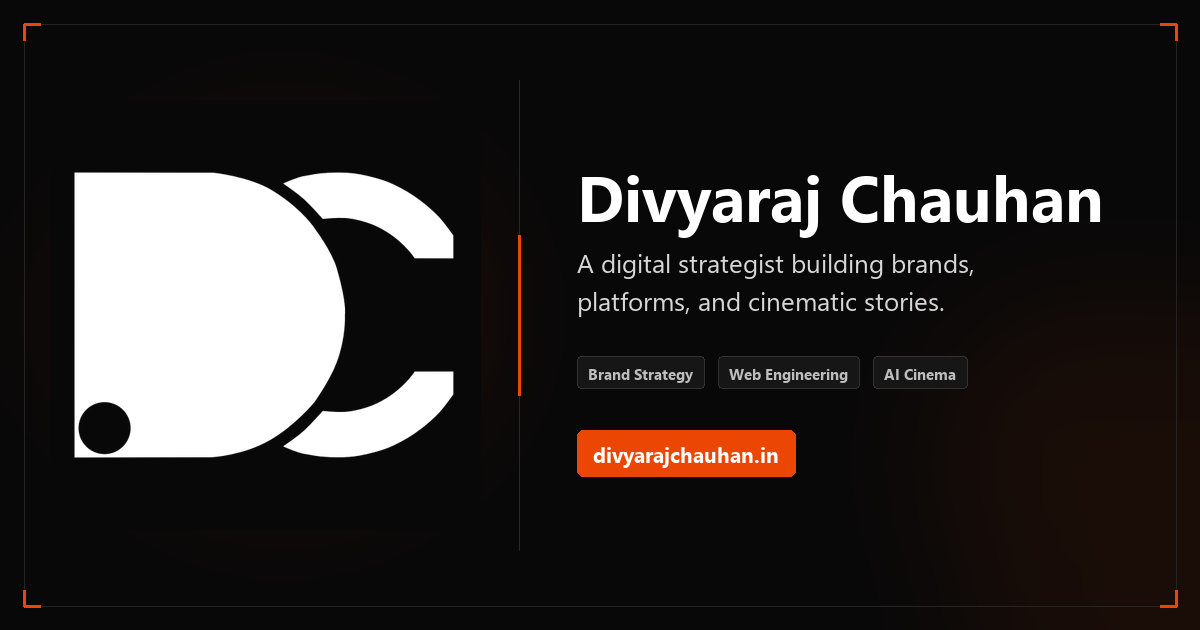
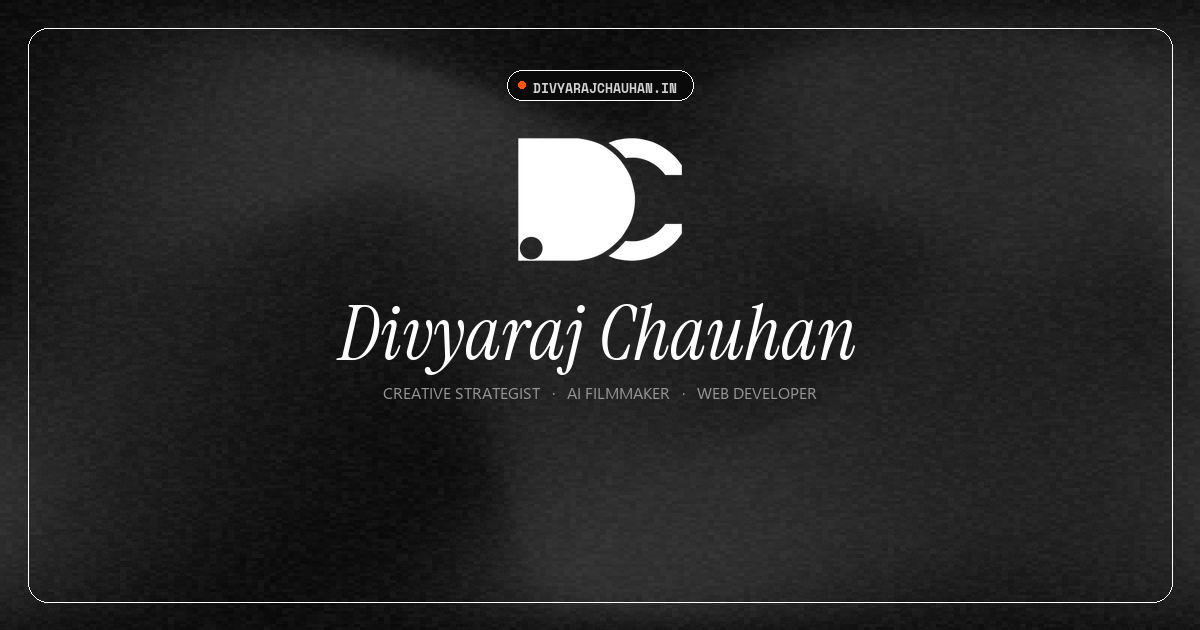
feat(branding): deploy clean brutalist share card v4 for Google search snippets and social cards

diff --git a/brands/sattvik.html b/brands/sattvik.html
@@ -610,8 +610,8 @@
     <meta property="og:url" content="https://www.divyarajchauhan.in/brands/sattvik">
     <meta property="og:title" content="Satcon 2026 — Behind The Screens — Brand Case Study | Divyaraj Chauhan">
     <meta property="og:description" content="—G—l—o—b—a—l— —c—o—m—p—l—i—a—n—c—e— —m—e—d—i—a—,— —v—e—r—i—f—i—e—d— —c—e—r—t—i—f—i—c—a—t—i—o—n— —b—a—d—g—e—s—,— —v—i—s—u—a—l— —s—t—a—n—d—a—r—d—s— —g—u—i—d—e—l—i—n—e—s—,— —a—n—d— —i—n—s—t—i—t—u—t—i—o—n—a—l— —c—o—m—m—u—n—i—c—a—t—i—o—n— —f—o—r— —S—a—t—t—v—i—k— —C—e—r—t—i—f—i—c—a—t—i—o—n—s—.—">
-    <meta property="og:image" content="https://www.divyarajchauhan.in/images/dc-share-card-v3.png">
-    <meta property="og:image:secure_url" content="https://www.divyarajchauhan.in/images/dc-share-card-v3.png">
+    <meta property="og:image" content="https://www.divyarajchauhan.in/images/dc-share-card-v4.png">
+    <meta property="og:image:secure_url" content="https://www.divyarajchauhan.in/images/dc-share-card-v4.png">
     <meta property="og:image:type" content="image/png">
     <meta property="og:image:width" content="1200">
     <meta property="og:image:height" content="630">
@@ -624,7 +624,7 @@
     <meta name="twitter:url" content="https://www.divyarajchauhan.in/brands/sattvik">
     <meta name="twitter:title" content="Satcon 2026 — Behind The Screens — Brand Case Study | Divyaraj Chauhan">
     <meta name="twitter:description" content="—G—l—o—b—a—l— —c—o—m—p—l—i—a—n—c—e— —m—e—d—i—a—,— —v—e—r—i—f—i—e—d— —c—e—r—t—i—f—i—c—a—t—i—o—n— —b—a—d—g—e—s—,— —v—i—s—u—a—l— —s—t—a—n—d—a—r—d—s— —g—u—i—d—e—l—i—n—e—s—,— —a—n—d— —i—n—s—t—i—t—u—t—i—o—n—a—l— —c—o—m—m—u—n—i—c—a—t—i—o—n— —f—o—r— —S—a—t—t—v—i—k— —C—e—r—t—i—f—i—c—a—t—i—o—n—s—.—">
-    <meta name="twitter:image" content="https://www.divyarajchauhan.in/images/dc-share-card-v3.png">
+    <meta name="twitter:image" content="https://www.divyarajchauhan.in/images/dc-share-card-v4.png">
     <meta name="twitter:image:alt" content="Divyaraj Chauhan — Creative Strategist, Web Designer & AI Filmmaker">
     <link rel="stylesheet" href="/css/navigation.css">
 </head>

diff --git a/brands/white-horse.html b/brands/white-horse.html
@@ -1110,8 +1110,8 @@
     <meta property="og:url" content="https://www.divyarajchauhan.in/brands/white-horse">
     <meta property="og:title" content="White HorseMedia Solution — Brand Case Study | Divyaraj Chauhan">
     <meta property="og:description" content="—C—l—i—e—n—t— —b—r—a—n—d— —m—a—r—k—e—t—i—n—g— —c—a—m—p—a—i—g—n—s—,— —c—r—e—a—t—i—v—e— —p—i—t—c—h— —d—e—c—k—s—,— —p—e—r—f—o—r—m—a—n—c—e— —r—e—p—o—r—t—i—n—g—,— —a—n—d— —d—a—i—l—y— —c—h—a—n—n—e—l— —o—p—e—r—a—t—i—o—n—s— —f—o—r— —W—h—i—t—e— —H—o—r—s—e— —M—e—d—i—a— —S—o—l—u—t—i—o—n—s—.—">
-    <meta property="og:image" content="https://www.divyarajchauhan.in/images/dc-share-card-v3.png">
-    <meta property="og:image:secure_url" content="https://www.divyarajchauhan.in/images/dc-share-card-v3.png">
+    <meta property="og:image" content="https://www.divyarajchauhan.in/images/dc-share-card-v4.png">
+    <meta property="og:image:secure_url" content="https://www.divyarajchauhan.in/images/dc-share-card-v4.png">
     <meta property="og:image:type" content="image/png">
     <meta property="og:image:width" content="1200">
     <meta property="og:image:height" content="630">
@@ -1124,7 +1124,7 @@
     <meta name="twitter:url" content="https://www.divyarajchauhan.in/brands/white-horse">
     <meta name="twitter:title" content="White HorseMedia Solution — Brand Case Study | Divyaraj Chauhan">
     <meta name="twitter:description" content="—C—l—i—e—n—t— —b—r—a—n—d— —m—a—r—k—e—t—i—n—g— —c—a—m—p—a—i—g—n—s—,— —c—r—e—a—t—i—v—e— —p—i—t—c—h— —d—e—c—k—s—,— —p—e—r—f—o—r—m—a—n—c—e— —r—e—p—o—r—t—i—n—g—,— —a—n—d— —d—a—i—l—y— —c—h—a—n—n—e—l— —o—p—e—r—a—t—i—o—n—s— —f—o—r— —W—h—i—t—e— —H—o—r—s—e— —M—e—d—i—a— —S—o—l—u—t—i—o—n—s—.—">
-    <meta name="twitter:image" content="https://www.divyarajchauhan.in/images/dc-share-card-v3.png">
+    <meta name="twitter:image" content="https://www.divyarajchauhan.in/images/dc-share-card-v4.png">
     <meta name="twitter:image:alt" content="Divyaraj Chauhan — Creative Strategist, Web Designer & AI Filmmaker">
     <link rel="stylesheet" href="/css/navigation.css">
 </head>

diff --git a/brands/esfi.html b/brands/esfi.html
@@ -1261,8 +1261,8 @@
     <meta property="og:url" content="https://www.divyarajchauhan.in/brands/esfi">
     <meta property="og:title" content="Esports Federationof India (ESFI) — Brand Case Study | Divyaraj Chauhan">
     <meta property="og:description" content="—N—a—t—i—o—n—a—l— —l—e—a—g—u—e— —o—p—e—r—a—t—i—o—n—s—,— —l—i—v—e— —t—o—u—r—n—a—m—e—n—t— —b—r—o—a—d—c—a—s—t—s—,— —a—n—d— —f—e—d—e—r—a—t—e—d— —s—o—c—i—a—l— —m—e—d—i—a— —m—a—n—a—g—e—m—e—n—t— —f—o—r— —E—s—p—o—r—t—s— —F—e—d—e—r—a—t—i—o—n— —o—f— —I—n—d—i—a— —(—E—S—F—I—)—.—">
-    <meta property="og:image" content="https://www.divyarajchauhan.in/images/dc-share-card-v3.png">
-    <meta property="og:image:secure_url" content="https://www.divyarajchauhan.in/images/dc-share-card-v3.png">
+    <meta property="og:image" content="https://www.divyarajchauhan.in/images/dc-share-card-v4.png">
+    <meta property="og:image:secure_url" content="https://www.divyarajchauhan.in/images/dc-share-card-v4.png">
     <meta property="og:image:type" content="image/png">
     <meta property="og:image:width" content="1200">
     <meta property="og:image:height" content="630">
@@ -1275,7 +1275,7 @@
     <meta name="twitter:url" content="https://www.divyarajchauhan.in/brands/esfi">
     <meta name="twitter:title" content="Esports Federationof India (ESFI) — Brand Case Study | Divyaraj Chauhan">
     <meta name="twitter:description" content="—N—a—t—i—o—n—a—l— —l—e—a—g—u—e— —o—p—e—r—a—t—i—o—n—s—,— —l—i—v—e— —t—o—u—r—n—a—m—e—n—t— —b—r—o—a—d—c—a—s—t—s—,— —a—n—d— —f—e—d—e—r—a—t—e—d— —s—o—c—i—a—l— —m—e—d—i—a— —m—a—n—a—g—e—m—e—n—t— —f—o—r— —E—s—p—o—r—t—s— —F—e—d—e—r—a—t—i—o—n— —o—f— —I—n—d—i—a— —(—E—S—F—I—)—.—">
-    <meta name="twitter:image" content="https://www.divyarajchauhan.in/images/dc-share-card-v3.png">
+    <meta name="twitter:image" content="https://www.divyarajchauhan.in/images/dc-share-card-v4.png">
     <meta name="twitter:image:alt" content="Divyaraj Chauhan — Creative Strategist, Web Designer & AI Filmmaker">
     <link rel="stylesheet" href="/css/navigation.css">
 </head>

diff --git a/brands/gujarat-tigers.html b/brands/gujarat-tigers.html
@@ -1004,8 +1004,8 @@
     <meta property="og:url" content="https://www.divyarajchauhan.in/brands/gujarat-tigers">
     <meta property="og:title" content="Gujarat TigersEsports — Brand Case Study | Divyaraj Chauhan">
     <meta property="og:description" content="—C—a—s—e— —s—t—u—d—y— —o—f— —e—s—p—o—r—t—s— —m—e—d—i—a— —o—p—e—r—a—t—i—o—n—s—,— —h—i—g—h—-—t—e—m—p—o— —m—a—t—c—h—d—a—y— —c—o—v—e—r—a—g—e—,— —a—n—d— —v—i—d—e—o— —p—r—o—d—u—c—t—i—o—n— —f—o—r— —G—u—j—a—r—a—t— —T—i—g—e—r—s— —b—y— —D—i—v—y—a—r—a—j— —C—h—a—u—h—a—n—.—">
-    <meta property="og:image" content="https://www.divyarajchauhan.in/images/dc-share-card-v3.png">
-    <meta property="og:image:secure_url" content="https://www.divyarajchauhan.in/images/dc-share-card-v3.png">
+    <meta property="og:image" content="https://www.divyarajchauhan.in/images/dc-share-card-v4.png">
+    <meta property="og:image:secure_url" content="https://www.divyarajchauhan.in/images/dc-share-card-v4.png">
     <meta property="og:image:type" content="image/png">
     <meta property="og:image:width" content="1200">
     <meta property="og:image:height" content="630">
@@ -1018,7 +1018,7 @@
     <meta name="twitter:url" content="https://www.divyarajchauhan.in/brands/gujarat-tigers">
     <meta name="twitter:title" content="Gujarat TigersEsports — Brand Case Study | Divyaraj Chauhan">
     <meta name="twitter:description" content="—C—a—s—e— —s—t—u—d—y— —o—f— —e—s—p—o—r—t—s— —m—e—d—i—a— —o—p—e—r—a—t—i—o—n—s—,— —h—i—g—h—-—t—e—m—p—o— —m—a—t—c—h—d—a—y— —c—o—v—e—r—a—g—e—,— —a—n—d— —v—i—d—e—o— —p—r—o—d—u—c—t—i—o—n— —f—o—r— —G—u—j—a—r—a—t— —T—i—g—e—r—s— —b—y— —D—i—v—y—a—r—a—j— —C—h—a—u—h—a—n—.—">
-    <meta name="twitter:image" content="https://www.divyarajchauhan.in/images/dc-share-card-v3.png">
+    <meta name="twitter:image" content="https://www.divyarajchauhan.in/images/dc-share-card-v4.png">
     <meta name="twitter:image:alt" content="Divyaraj Chauhan — Creative Strategist, Web Designer & AI Filmmaker">
     <link rel="stylesheet" href="/css/navigation.css">
 </head>

diff --git a/brands/credes.html b/brands/credes.html
@@ -1486,8 +1486,8 @@
     <meta property="og:url" content="https://www.divyarajchauhan.in/brands/credes">
     <meta property="og:title" content="Credes — Brand Case Study | Divyaraj Chauhan">
     <meta property="og:description" content="—C—a—s—e— —s—t—u—d—y— —o—f— —h—o—w— —D—i—v—y—a—r—a—j— —C—h—a—u—h—a—n— —e—n—g—i—n—e—e—r—e—d— —t—h—e— —d—i—g—i—t—a—l— —e—c—o—s—y—s—t—e—m—,— —s—o—c—i—a—l— —m—e—d—i—a— —s—t—r—a—t—e—g—y—,— —a—n—d— —b—r—a—n—d— —i—d—e—n—t—i—t—y— —f—o—r— —C—r—e—d—e—s— —T—e—c—h—l—a—b—s—.—">
-    <meta property="og:image" content="https://www.divyarajchauhan.in/images/dc-share-card-v3.png">
-    <meta property="og:image:secure_url" content="https://www.divyarajchauhan.in/images/dc-share-card-v3.png">
+    <meta property="og:image" content="https://www.divyarajchauhan.in/images/dc-share-card-v4.png">
+    <meta property="og:image:secure_url" content="https://www.divyarajchauhan.in/images/dc-share-card-v4.png">
     <meta property="og:image:type" content="image/png">
     <meta property="og:image:width" content="1200">
     <meta property="og:image:height" content="630">
@@ -1500,7 +1500,7 @@
     <meta name="twitter:url" content="https://www.divyarajchauhan.in/brands/credes">
     <meta name="twitter:title" content="Credes — Brand Case Study | Divyaraj Chauhan">
     <meta name="twitter:description" content="—C—a—s—e— —s—t—u—d—y— —o—f— —h—o—w— —D—i—v—y—a—r—a—j— —C—h—a—u—h—a—n— —e—n—g—i—n—e—e—r—e—d— —t—h—e— —d—i—g—i—t—a—l— —e—c—o—s—y—s—t—e—m—,— —s—o—c—i—a—l— —m—e—d—i—a— —s—t—r—a—t—e—g—y—,— —a—n—d— —b—r—a—n—d— —i—d—e—n—t—i—t—y— —f—o—r— —C—r—e—d—e—s— —T—e—c—h—l—a—b—s—.—">
-    <meta name="twitter:image" content="https://www.divyarajchauhan.in/images/dc-share-card-v3.png">
+    <meta name="twitter:image" content="https://www.divyarajchauhan.in/images/dc-share-card-v4.png">
     <meta name="twitter:image:alt" content="Divyaraj Chauhan — Creative Strategist, Web Designer & AI Filmmaker">
     <link rel="stylesheet" href="/css/navigation.css">
 </head>

diff --git a/brands/scuff.html b/brands/scuff.html
@@ -1001,8 +1001,8 @@
     <meta property="og:url" content="https://www.divyarajchauhan.in/brands/scuff">
     <meta property="og:title" content="Scuff — Brand Case Study | Divyaraj Chauhan">
     <meta property="og:description" content="—E—-—c—o—m—m—e—r—c—e— —b—r—a—n—d— —p—r—e—s—e—n—c—e—,— —d—i—g—i—t—a—l— —d—r—o—p— —p—r—o—m—o—t—i—o—n—s—,— —l—o—o—k—b—o—o—k— —s—t—y—l—i—n—g— —a—s—s—e—t—s—,— —a—n—d— —c—u—s—t—o—m—e—r— —a—c—q—u—i—s—i—t—i—o—n— —w—o—r—k—f—l—o—w—s— —f—o—r— —S—c—u—f—f— —C—l—o—t—h—i—n—g—.—">
-    <meta property="og:image" content="https://www.divyarajchauhan.in/images/dc-share-card-v3.png">
-    <meta property="og:image:secure_url" content="https://www.divyarajchauhan.in/images/dc-share-card-v3.png">
+    <meta property="og:image" content="https://www.divyarajchauhan.in/images/dc-share-card-v4.png">
+    <meta property="og:image:secure_url" content="https://www.divyarajchauhan.in/images/dc-share-card-v4.png">
     <meta property="og:image:type" content="image/png">
     <meta property="og:image:width" content="1200">
     <meta property="og:image:height" content="630">
@@ -1015,7 +1015,7 @@
     <meta name="twitter:url" content="https://www.divyarajchauhan.in/brands/scuff">
     <meta name="twitter:title" content="Scuff — Brand Case Study | Divyaraj Chauhan">
     <meta name="twitter:description" content="—E—-—c—o—m—m—e—r—c—e— —b—r—a—n—d— —p—r—e—s—e—n—c—e—,— —d—i—g—i—t—a—l— —d—r—o—p— —p—r—o—m—o—t—i—o—n—s—,— —l—o—o—k—b—o—o—k— —s—t—y—l—i—n—g— —a—s—s—e—t—s—,— —a—n—d— —c—u—s—t—o—m—e—r— —a—c—q—u—i—s—i—t—i—o—n— —w—o—r—k—f—l—o—w—s— —f—o—r— —S—c—u—f—f— —C—l—o—t—h—i—n—g—.—">
-    <meta name="twitter:image" content="https://www.divyarajchauhan.in/images/dc-share-card-v3.png">
+    <meta name="twitter:image" content="https://www.divyarajchauhan.in/images/dc-share-card-v4.png">
     <meta name="twitter:image:alt" content="Divyaraj Chauhan — Creative Strategist, Web Designer & AI Filmmaker">
     <link rel="stylesheet" href="/css/navigation.css">
 </head>

diff --git a/brands/hashlite.html b/brands/hashlite.html
@@ -899,8 +899,8 @@
     <meta property="og:url" content="https://www.divyarajchauhan.in/brands/hashlite">
     <meta property="og:title" content="HashLite — Brand Case Study | Divyaraj Chauhan">
     <meta property="og:description" content="—S—o—c—i—a—l— —c—h—a—n—n—e—l— —a—r—c—h—i—t—e—c—t—u—r—e—s—,— —d—e—v—e—l—o—p—e—r— —a—u—d—i—e—n—c—e— —e—n—g—a—g—e—m—e—n—t— —f—r—a—m—e—w—o—r—k—s—,— —a—n—d— —e—d—i—t—o—r—i—a—l— —p—u—b—l—i—s—h—i—n—g— —s—c—h—e—d—u—l—e—s— —f—o—r— —H—a—s—h—L—i—t—e—.—">
-    <meta property="og:image" content="https://www.divyarajchauhan.in/images/dc-share-card-v3.png">
-    <meta property="og:image:secure_url" content="https://www.divyarajchauhan.in/images/dc-share-card-v3.png">
+    <meta property="og:image" content="https://www.divyarajchauhan.in/images/dc-share-card-v4.png">
+    <meta property="og:image:secure_url" content="https://www.divyarajchauhan.in/images/dc-share-card-v4.png">
     <meta property="og:image:type" content="image/png">
     <meta property="og:image:width" content="1200">
     <meta property="og:image:height" content="630">
@@ -913,7 +913,7 @@
     <meta name="twitter:url" content="https://www.divyarajchauhan.in/brands/hashlite">
     <meta name="twitter:title" content="HashLite — Brand Case Study | Divyaraj Chauhan">
     <meta name="twitter:description" content="—S—o—c—i—a—l— —c—h—a—n—n—e—l— —a—r—c—h—i—t—e—c—t—u—r—e—s—,— —d—e—v—e—l—o—p—e—r— —a—u—d—i—e—n—c—e— —e—n—g—a—g—e—m—e—n—t— —f—r—a—m—e—w—o—r—k—s—,— —a—n—d— —e—d—i—t—o—r—i—a—l— —p—u—b—l—i—s—h—i—n—g— —s—c—h—e—d—u—l—e—s— —f—o—r— —H—a—s—h—L—i—t—e—.—">
-    <meta name="twitter:image" content="https://www.divyarajchauhan.in/images/dc-share-card-v3.png">
+    <meta name="twitter:image" content="https://www.divyarajchauhan.in/images/dc-share-card-v4.png">
     <meta name="twitter:image:alt" content="Divyaraj Chauhan — Creative Strategist, Web Designer & AI Filmmaker">
     <link rel="stylesheet" href="/css/navigation.css">
 </head>

diff --git a/brands/highrocks.html b/brands/highrocks.html
@@ -1015,8 +1015,8 @@
     <meta property="og:url" content="https://www.divyarajchauhan.in/brands/highrocks">
     <meta property="og:title" content="Highrocks — Brand Case Study | Divyaraj Chauhan">
     <meta property="og:description" content="—H—i—g—h—-—r—e—s—o—l—u—t—i—o—n— —d—i—g—i—t—a—l— —m—a—r—k—e—t—i—n—g— —c—o—l—l—a—t—e—r—a—l—,— —s—o—c—i—a—l— —m—e—d—i—a— —g—r—a—p—h—i—c— —a—s—s—e—t—s—,— —a—n—d— —b—r—a—n—d— —d—e—s—i—g—n— —g—u—i—d—e—l—i—n—e—s— —f—o—r— —H—i—g—h—r—o—c—k—s—.—">
-    <meta property="og:image" content="https://www.divyarajchauhan.in/images/dc-share-card-v3.png">
-    <meta property="og:image:secure_url" content="https://www.divyarajchauhan.in/images/dc-share-card-v3.png">
+    <meta property="og:image" content="https://www.divyarajchauhan.in/images/dc-share-card-v4.png">
+    <meta property="og:image:secure_url" content="https://www.divyarajchauhan.in/images/dc-share-card-v4.png">
     <meta property="og:image:type" content="image/png">
     <meta property="og:image:width" content="1200">
     <meta property="og:image:height" content="630">
@@ -1029,7 +1029,7 @@
     <meta name="twitter:url" content="https://www.divyarajchauhan.in/brands/highrocks">
     <meta name="twitter:title" content="Highrocks — Brand Case Study | Divyaraj Chauhan">
     <meta name="twitter:description" content="—H—i—g—h—-—r—e—s—o—l—u—t—i—o—n— —d—i—g—i—t—a—l— —m—a—r—k—e—t—i—n—g— —c—o—l—l—a—t—e—r—a—l—,— —s—o—c—i—a—l— —m—e—d—i—a— —g—r—a—p—h—i—c— —a—s—s—e—t—s—,— —a—n—d— —b—r—a—n—d— —d—e—s—i—g—n— —g—u—i—d—e—l—i—n—e—s— —f—o—r— —H—i—g—h—r—o—c—k—s—.—">
-    <meta name="twitter:image" content="https://www.divyarajchauhan.in/images/dc-share-card-v3.png">
+    <meta name="twitter:image" content="https://www.divyarajchauhan.in/images/dc-share-card-v4.png">
     <meta name="twitter:image:alt" content="Divyaraj Chauhan — Creative Strategist, Web Designer & AI Filmmaker">
     <link rel="stylesheet" href="/css/navigation.css">
 </head>

diff --git a/brands/giffy.html b/brands/giffy.html
@@ -1161,8 +1161,8 @@
     <meta property="og:url" content="https://www.divyarajchauhan.in/brands/giffy">
     <meta property="og:title" content="Giffy — Brand Case Study | Divyaraj Chauhan">
     <meta property="og:description" content="—S—t—r—u—c—t—u—r—e—d— —c—o—n—t—e—n—t— —p—i—p—e—l—i—n—e—s— —a—n—d— —v—i—d—e—o— —p—r—o—d—u—c—t—i—o—n— —w—o—r—k—f—l—o—w—s— —d—e—s—i—g—n—e—d— —f—o—r— —h—i—g—h—-—f—r—e—q—u—e—n—c—y— —s—o—c—i—a—l— —e—n—g—a—g—e—m—e—n—t— —f—o—r— —G—i—f—f—y—.—">
-    <meta property="og:image" content="https://www.divyarajchauhan.in/images/dc-share-card-v3.png">
-    <meta property="og:image:secure_url" content="https://www.divyarajchauhan.in/images/dc-share-card-v3.png">
+    <meta property="og:image" content="https://www.divyarajchauhan.in/images/dc-share-card-v4.png">
+    <meta property="og:image:secure_url" content="https://www.divyarajchauhan.in/images/dc-share-card-v4.png">
     <meta property="og:image:type" content="image/png">
     <meta property="og:image:width" content="1200">
     <meta property="og:image:height" content="630">
@@ -1175,7 +1175,7 @@
     <meta name="twitter:url" content="https://www.divyarajchauhan.in/brands/giffy">
     <meta name="twitter:title" content="Giffy — Brand Case Study | Divyaraj Chauhan">
     <meta name="twitter:description" content="—S—t—r—u—c—t—u—r—e—d— —c—o—n—t—e—n—t— —p—i—p—e—l—i—n—e—s— —a—n—d— —v—i—d—e—o— —p—r—o—d—u—c—t—i—o—n— —w—o—r—k—f—l—o—w—s— —d—e—s—i—g—n—e—d— —f—o—r— —h—i—g—h—-—f—r—e—q—u—e—n—c—y— —s—o—c—i—a—l— —e—n—g—a—g—e—m—e—n—t— —f—o—r— —G—i—f—f—y—.—">
-    <meta name="twitter:image" content="https://www.divyarajchauhan.in/images/dc-share-card-v3.png">
+    <meta name="twitter:image" content="https://www.divyarajchauhan.in/images/dc-share-card-v4.png">
     <meta name="twitter:image:alt" content="Divyaraj Chauhan — Creative Strategist, Web Designer & AI Filmmaker">
     <link rel="stylesheet" href="/css/navigation.css">
 </head>

diff --git a/brands/finanvo.html b/brands/finanvo.html
@@ -1082,8 +1082,8 @@
     <meta property="og:url" content="https://www.divyarajchauhan.in/brands/finanvo">
     <meta property="og:title" content="FinanvoB2B Intelligence — Brand Case Study | Divyaraj Chauhan">
     <meta property="og:description" content="—D—i—g—i—t—a—l— —b—r—a—n—d— —d—e—s—i—g—n—,— —c—o—n—t—e—n—t— —s—t—r—a—t—e—g—y—,— —a—n—d— —m—u—l—t—i—-—c—h—a—n—n—e—l— —m—a—r—k—e—t—i—n—g— —c—a—m—p—a—i—g—n—s— —f—o—r— —F—i—n—a—n—v—o— —b—y— —D—i—v—y—a—r—a—j— —C—h—a—u—h—a—n—.—">
-    <meta property="og:image" content="https://www.divyarajchauhan.in/images/dc-share-card-v3.png">
-    <meta property="og:image:secure_url" content="https://www.divyarajchauhan.in/images/dc-share-card-v3.png">
+    <meta property="og:image" content="https://www.divyarajchauhan.in/images/dc-share-card-v4.png">
+    <meta property="og:image:secure_url" content="https://www.divyarajchauhan.in/images/dc-share-card-v4.png">
     <meta property="og:image:type" content="image/png">
     <meta property="og:image:width" content="1200">
     <meta property="og:image:height" content="630">
@@ -1096,7 +1096,7 @@
     <meta name="twitter:url" content="https://www.divyarajchauhan.in/brands/finanvo">
     <meta name="twitter:title" content="FinanvoB2B Intelligence — Brand Case Study | Divyaraj Chauhan">
     <meta name="twitter:description" content="—D—i—g—i—t—a—l— —b—r—a—n—d— —d—e—s—i—g—n—,— —c—o—n—t—e—n—t— —s—t—r—a—t—e—g—y—,— —a—n—d— —m—u—l—t—i—-—c—h—a—n—n—e—l— —m—a—r—k—e—t—i—n—g— —c—a—m—p—a—i—g—n—s— —f—o—r— —F—i—n—a—n—v—o— —b—y— —D—i—v—y—a—r—a—j— —C—h—a—u—h—a—n—.—">
-    <meta name="twitter:image" content="https://www.divyarajchauhan.in/images/dc-share-card-v3.png">
+    <meta name="twitter:image" content="https://www.divyarajchauhan.in/images/dc-share-card-v4.png">
     <meta name="twitter:image:alt" content="Divyaraj Chauhan — Creative Strategist, Web Designer & AI Filmmaker">
     <link rel="stylesheet" href="/css/navigation.css">
 </head>

diff --git a/brands/shelf.html b/brands/shelf.html
@@ -1015,8 +1015,8 @@
     <meta property="og:url" content="https://www.divyarajchauhan.in/brands/shelf">
     <meta property="og:title" content="Shelf — Brand Case Study | Divyaraj Chauhan">
     <meta property="og:description" content="—M—i—n—i—m—a—l—i—s—t— —v—i—s—u—a—l— —i—d—e—n—t—i—t—y— —s—y—s—t—e—m—s—,— —l—a—y—o—u—t— —t—e—m—p—l—a—t—e—s—,— —t—y—p—o—g—r—a—p—h—y— —g—u—i—d—e—l—i—n—e—s—,— —a—n—d— —d—i—g—i—t—a—l— —a—s—s—e—t— —l—i—b—r—a—r—i—e—s— —f—o—r— —S—h—e—l—f—.—">
-    <meta property="og:image" content="https://www.divyarajchauhan.in/images/dc-share-card-v3.png">
-    <meta property="og:image:secure_url" content="https://www.divyarajchauhan.in/images/dc-share-card-v3.png">
+    <meta property="og:image" content="https://www.divyarajchauhan.in/images/dc-share-card-v4.png">
+    <meta property="og:image:secure_url" content="https://www.divyarajchauhan.in/images/dc-share-card-v4.png">
     <meta property="og:image:type" content="image/png">
     <meta property="og:image:width" content="1200">
     <meta property="og:image:height" content="630">
@@ -1029,7 +1029,7 @@
     <meta name="twitter:url" content="https://www.divyarajchauhan.in/brands/shelf">
     <meta name="twitter:title" content="Shelf — Brand Case Study | Divyaraj Chauhan">
     <meta name="twitter:description" content="—M—i—n—i—m—a—l—i—s—t— —v—i—s—u—a—l— —i—d—e—n—t—i—t—y— —s—y—s—t—e—m—s—,— —l—a—y—o—u—t— —t—e—m—p—l—a—t—e—s—,— —t—y—p—o—g—r—a—p—h—y— —g—u—i—d—e—l—i—n—e—s—,— —a—n—d— —d—i—g—i—t—a—l— —a—s—s—e—t— —l—i—b—r—a—r—i—e—s— —f—o—r— —S—h—e—l—f—.—">
-    <meta name="twitter:image" content="https://www.divyarajchauhan.in/images/dc-share-card-v3.png">
+    <meta name="twitter:image" content="https://www.divyarajchauhan.in/images/dc-share-card-v4.png">
     <meta name="twitter:image:alt" content="Divyaraj Chauhan — Creative Strategist, Web Designer & AI Filmmaker">
     <link rel="stylesheet" href="/css/navigation.css">
 </head>

diff --git a/brands/untagd.html b/brands/untagd.html
@@ -331,8 +331,8 @@
     <meta property="og:url" content="https://www.divyarajchauhan.in/brands/untagd">
     <meta property="og:title" content="Untagd — Brand Case Study | Divyaraj Chauhan">
     <meta property="og:description" content="—G—e—n—e—r—a—t—i—v—e— —v—i—s—u—a—l— —c—o—n—c—e—p—t—s—,— —p—r—o—m—p—t— —w—o—r—k—f—l—o—w—s—,— —c—o—m—m—e—r—c—i—a—l— —A—I— —v—i—d—e—o— —p—r—o—t—o—t—y—p—i—n—g—,— —a—n—d— —b—r—a—n—d— —s—t—o—r—y—t—e—l—l—i—n—g— —f—o—r— —U—n—t—a—g—d—.—">
-    <meta property="og:image" content="https://www.divyarajchauhan.in/images/dc-share-card-v3.png">
-    <meta property="og:image:secure_url" content="https://www.divyarajchauhan.in/images/dc-share-card-v3.png">
+    <meta property="og:image" content="https://www.divyarajchauhan.in/images/dc-share-card-v4.png">
+    <meta property="og:image:secure_url" content="https://www.divyarajchauhan.in/images/dc-share-card-v4.png">
     <meta property="og:image:type" content="image/png">
     <meta property="og:image:width" content="1200">
     <meta property="og:image:height" content="630">
@@ -345,7 +345,7 @@
     <meta name="twitter:url" content="https://www.divyarajchauhan.in/brands/untagd">
     <meta name="twitter:title" content="Untagd — Brand Case Study | Divyaraj Chauhan">
     <meta name="twitter:description" content="—G—e—n—e—r—a—t—i—v—e— —v—i—s—u—a—l— —c—o—n—c—e—p—t—s—,— —p—r—o—m—p—t— —w—o—r—k—f—l—o—w—s—,— —c—o—m—m—e—r—c—i—a—l— —A—I— —v—i—d—e—o— —p—r—o—t—o—t—y—p—i—n—g—,— —a—n—d— —b—r—a—n—d— —s—t—o—r—y—t—e—l—l—i—n—g— —f—o—r— —U—n—t—a—g—d—.—">
-    <meta name="twitter:image" content="https://www.divyarajchauhan.in/images/dc-share-card-v3.png">
+    <meta name="twitter:image" content="https://www.divyarajchauhan.in/images/dc-share-card-v4.png">
     <meta name="twitter:image:alt" content="Divyaraj Chauhan — Creative Strategist, Web Designer & AI Filmmaker">
     <link rel="stylesheet" href="/css/navigation.css">
 </head>
